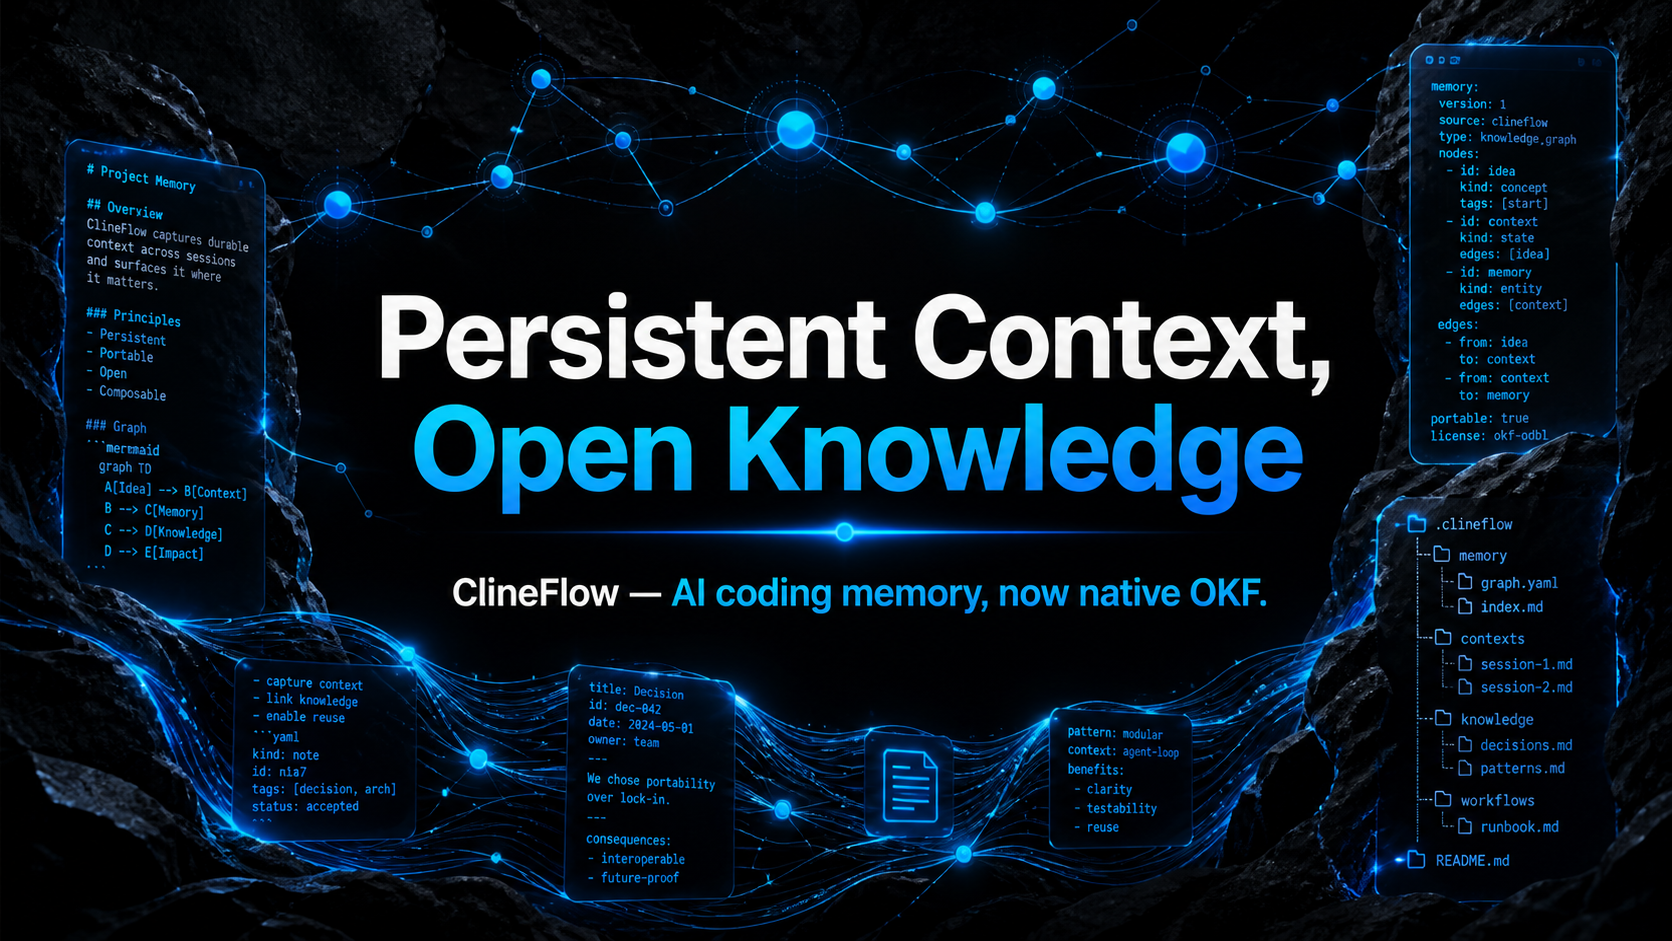
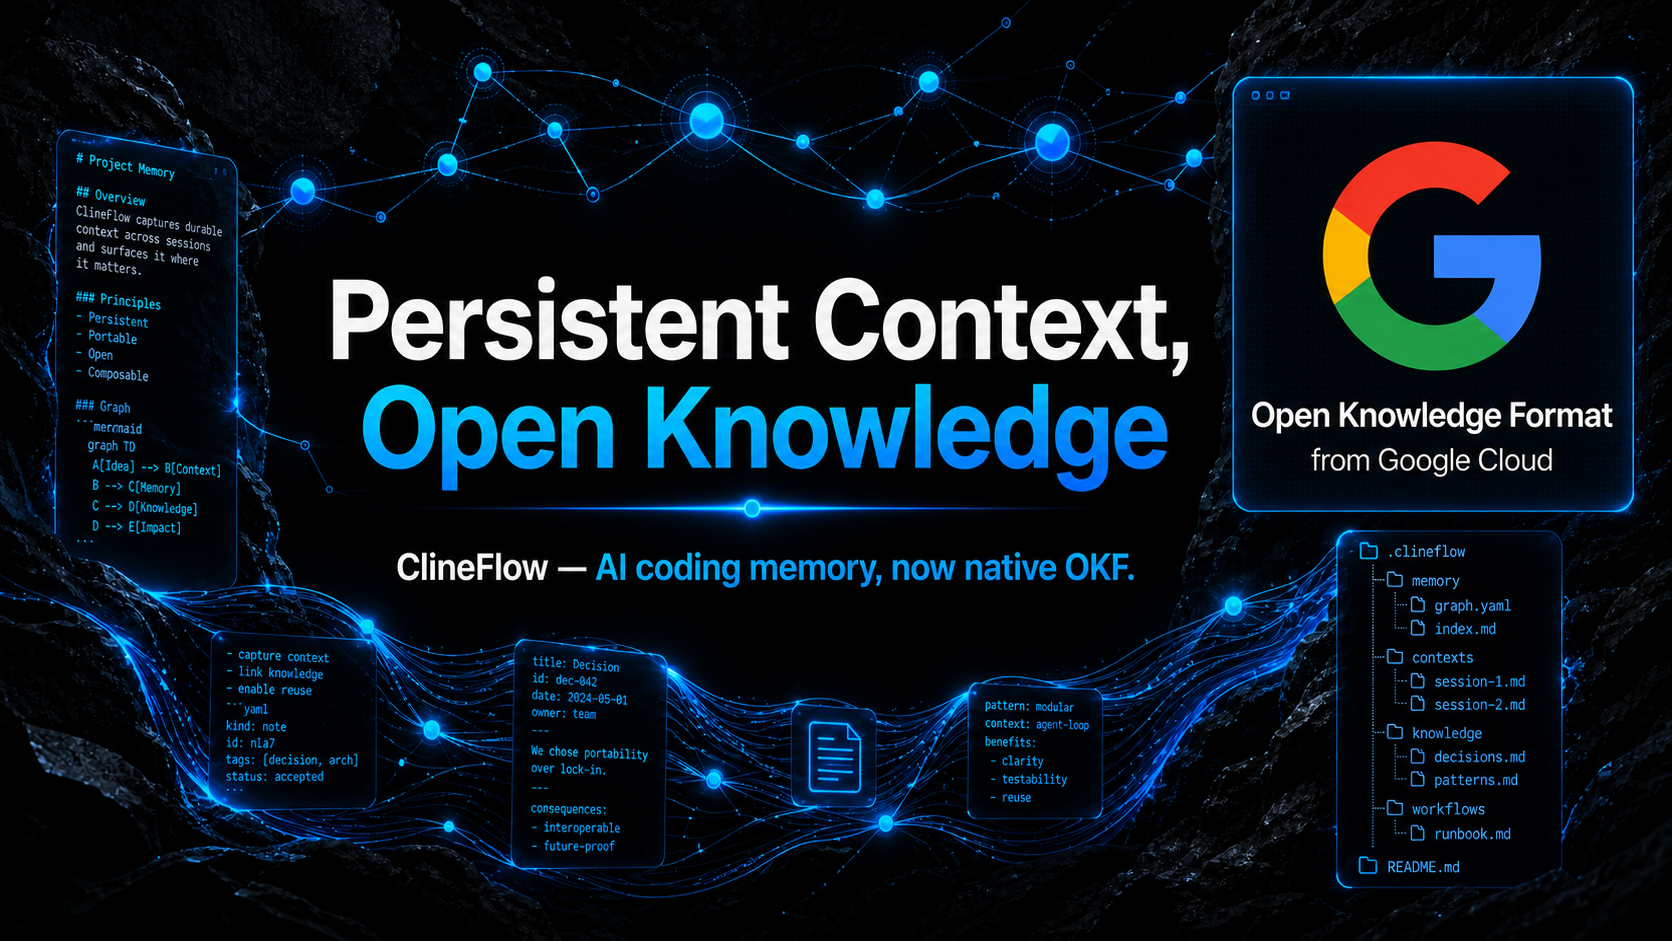
docs: highlight Google Cloud OKF adoption

diff --git a/README.md b/README.md
@@ -24,7 +24,7 @@
 
 ## The memory layer for AI coding agents
 
-ClineFlow turns engineering context into portable, version-controlled knowledge. New projects use a native [Open Knowledge Format (OKF) v0.2](https://github.com/GoogleCloudPlatform/knowledge-catalog/blob/main/okf/SPEC.md) bundle, so people and agents share the same Markdown and YAML knowledge graph—without a platform, service, or lock-in.
+ClineFlow turns engineering context into portable, version-controlled knowledge. It adopts the [Open Knowledge Format introduced by Google Cloud](https://cloud.google.com/blog/products/data-analytics/how-the-open-knowledge-format-can-improve-data-sharing) and targets the [OKF v0.2 specification](https://github.com/GoogleCloudPlatform/knowledge-catalog/blob/main/okf/SPEC.md), so people and agents share the same Markdown and YAML knowledge graph—without a platform, service, or lock-in.
 
 - **Persistent context:** task history, decisions, tests, and next steps survive every session.
 - **Open knowledge:** `knowledge/` is a readable, Git-native OKF bundle with indexes, links, and change history.

diff --git a/docs/okf-knowledge-workflow.md b/docs/okf-knowledge-workflow.md
@@ -1,6 +1,6 @@
 # ClineFlow OKF Knowledge Workflow
 
-ClineFlow stores new persistent engineering context as an [Open Knowledge Format (OKF) v0.2](https://github.com/GoogleCloudPlatform/knowledge-catalog/blob/main/okf/SPEC.md) bundle. The format keeps knowledge portable, human-readable, agent-readable, and reviewable in Git.
+ClineFlow stores new persistent engineering context as an Open Knowledge Format bundle, following [Google Cloud's introduction to OKF](https://cloud.google.com/blog/products/data-analytics/how-the-open-knowledge-format-can-improve-data-sharing) and targeting the [OKF v0.2 specification](https://github.com/GoogleCloudPlatform/knowledge-catalog/blob/main/okf/SPEC.md). The format keeps knowledge portable, human-readable, agent-readable, and reviewable in Git.
 
 ## Bundle layout
 
